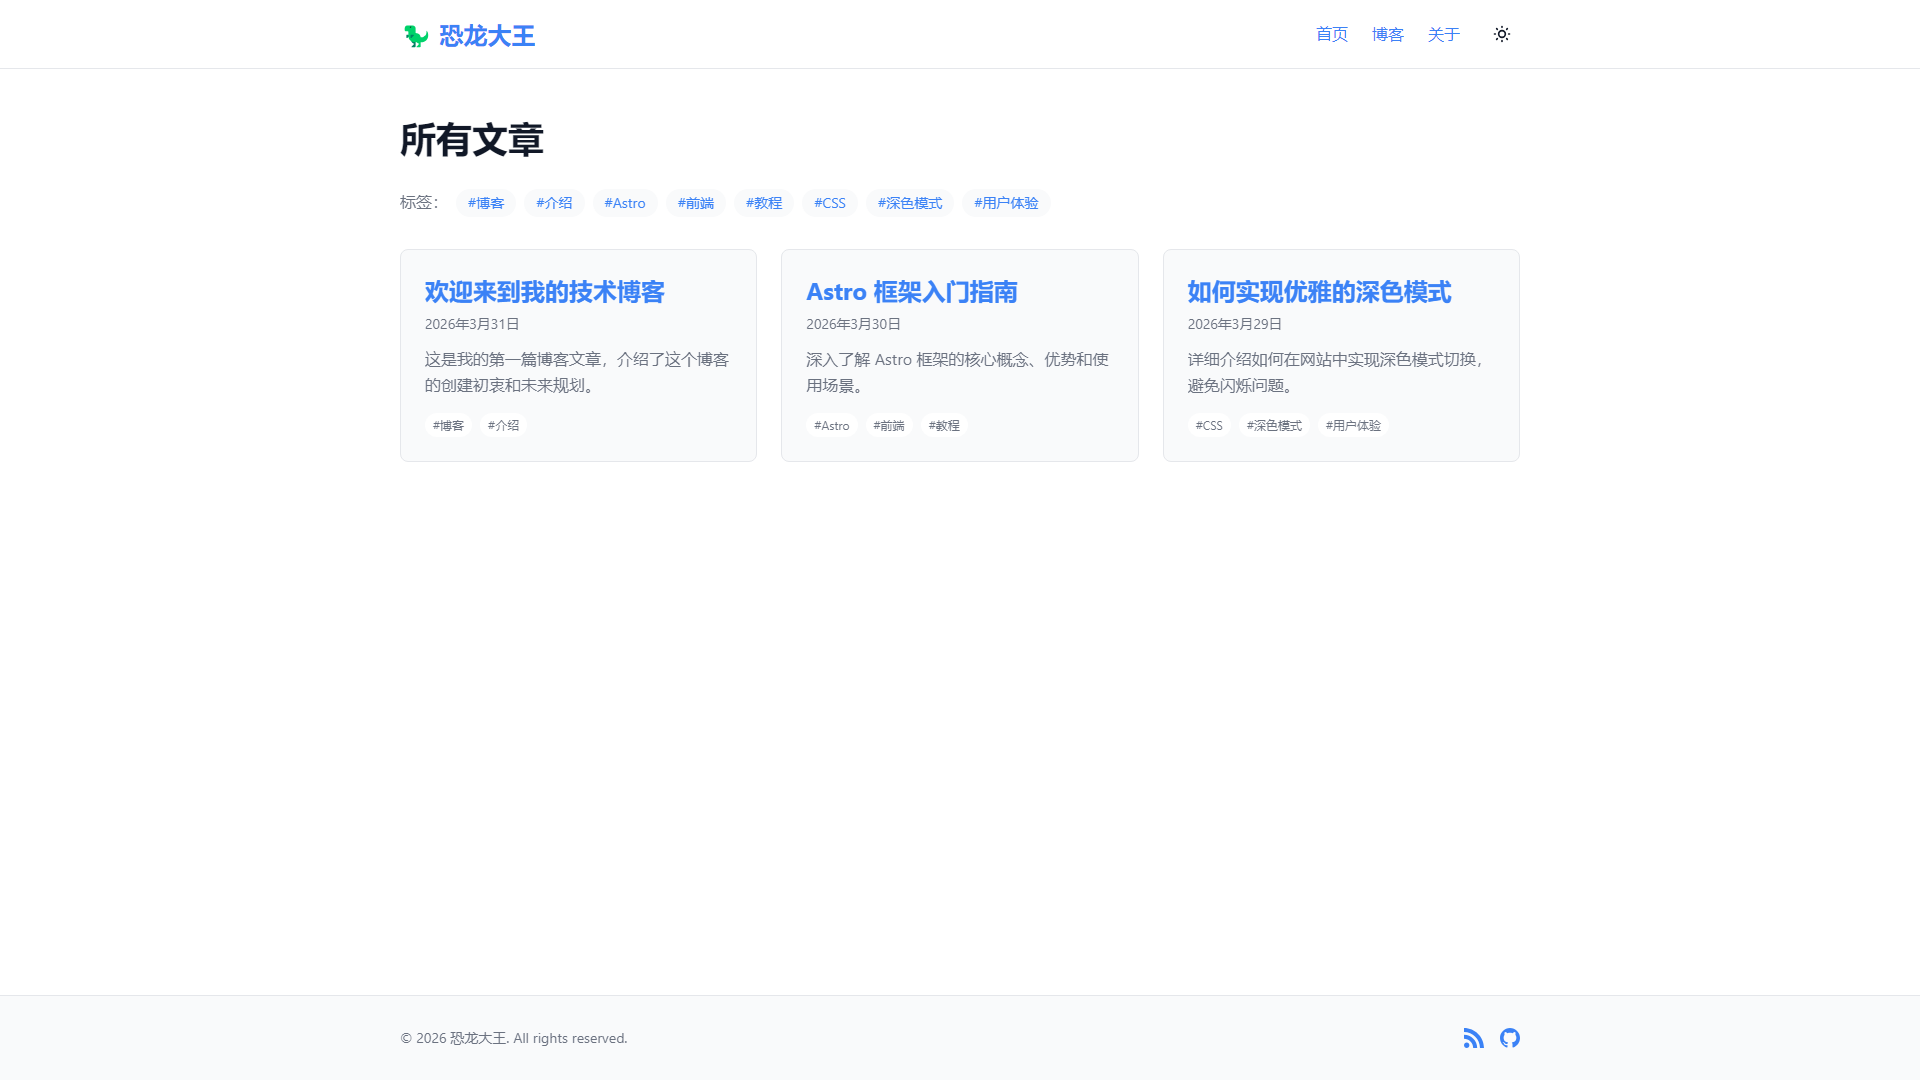
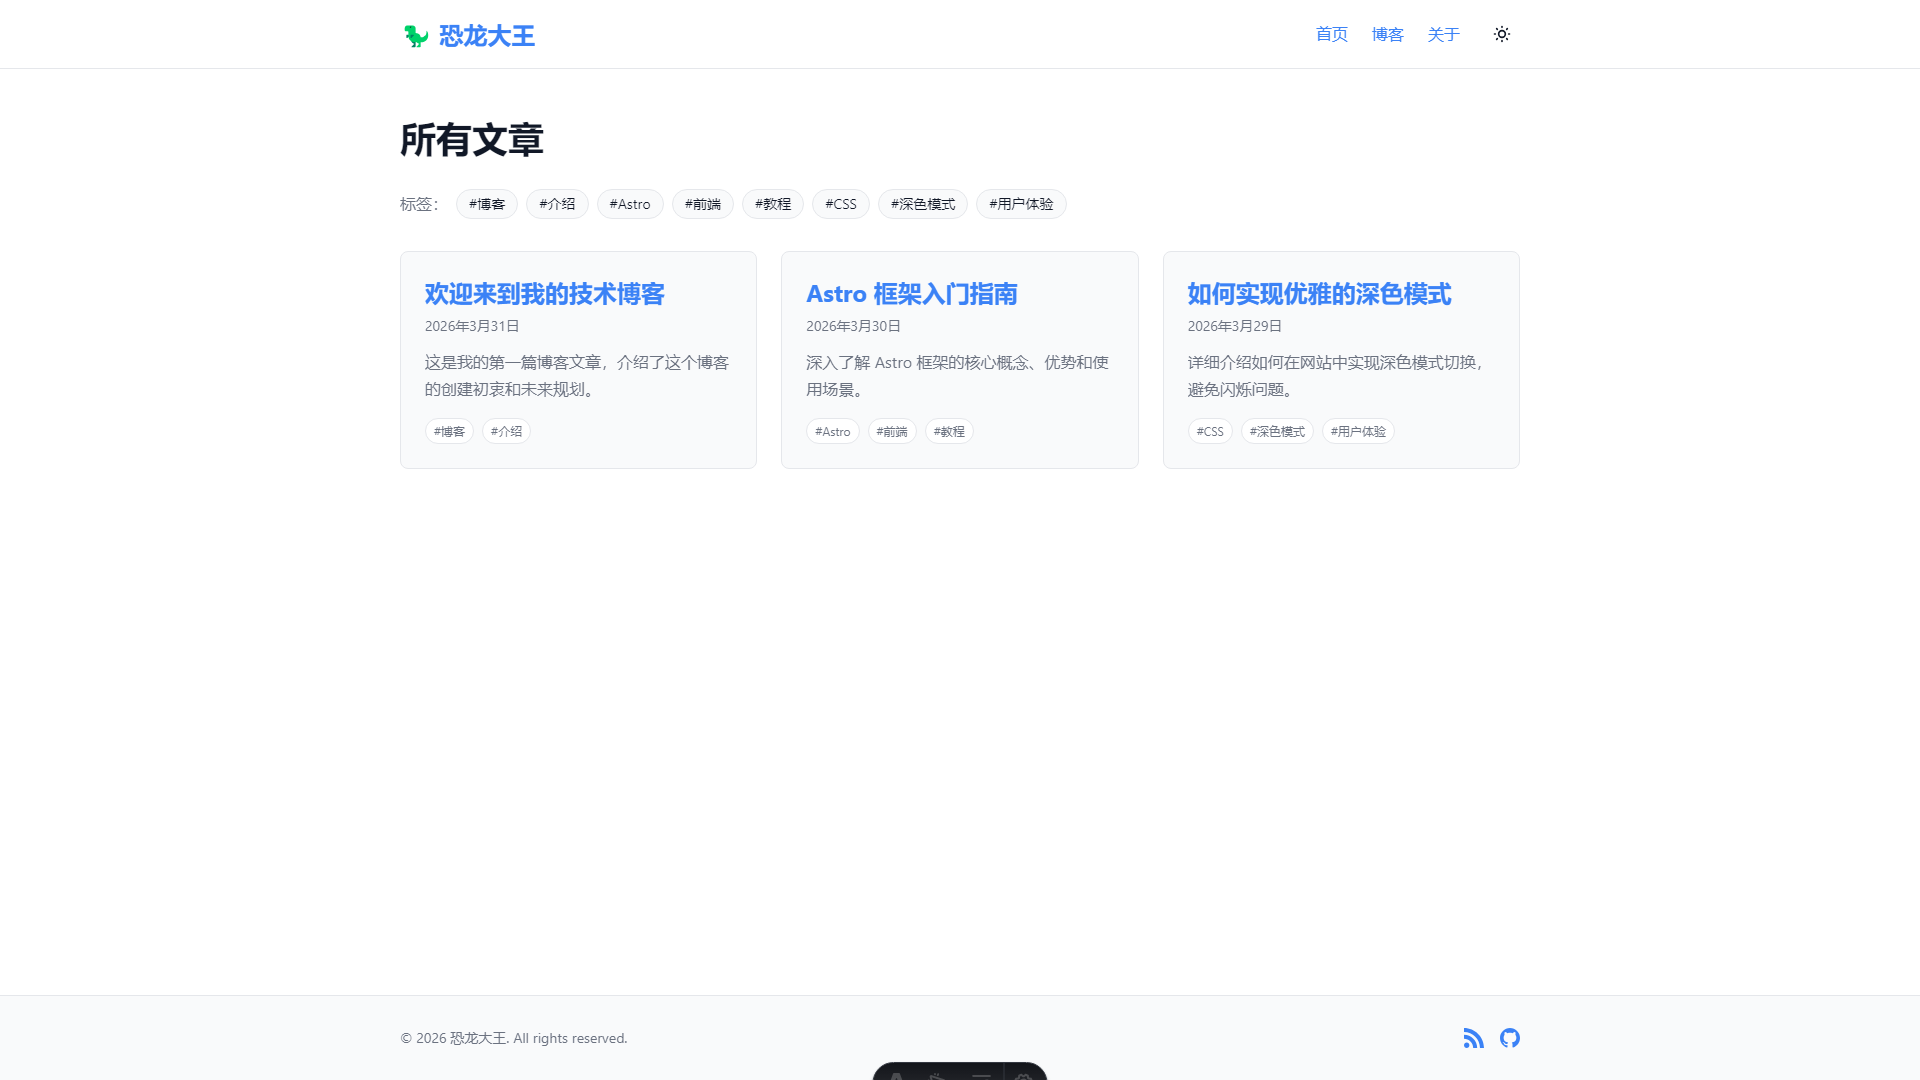
🔧 彻底修复标签选中文字空白问题
- 移除所有标签的内联 style 样式（内联样式会覆盖 ::selection）
- 为不同位置的标签添加专门的 CSS 类
  - .tag-link: 博客列表页的标签链接
  - .card-tag: 文章卡片中的标签
  - .article-tag: 文章详情页的标签
- 为每个标签类添加 ::selection 样式
- 使用 !important 确保选中样式优先级最高
- 添加 text-shadow: none 防止文字阴影干扰
- 统一选中效果：蓝色背景 + 白色文字

diff --git a/src/styles/global.css b/src/styles/global.css
@@ -108,27 +108,63 @@ a:hover {
 .tag-link {
   display: inline-block;
   background-color: var(--bg-secondary);
-  color: var(--text-primary);
+  color: var(--text-primary) !important;
   border: 1px solid var(--border-color);
 }
 
 .tag-link::selection {
-  background-color: var(--accent);
+  background-color: var(--accent) !important;
   color: #ffffff !important;
+  text-shadow: none !important;
 }
 
 .tag-link::-moz-selection {
-  background-color: var(--accent);
+  background-color: var(--accent) !important;
   color: #ffffff !important;
+  text-shadow: none !important;
 }
 
 .tag-link:hover {
-  background-color: var(--accent);
+  background-color: var(--accent) !important;
   color: #ffffff !important;
   border-color: var(--accent);
   opacity: 1;
   transform: translateY(-1px);
   box-shadow: var(--shadow-sm);
+}
+
+/* 文章卡片标签样式 */
+.card-tag {
+  background-color: var(--bg-primary);
+  color: var(--text-secondary) !important;
+  border-color: var(--border-color);
+}
+
+.card-tag::selection {
+  background-color: var(--accent) !important;
+  color: #ffffff !important;
+}
+
+.card-tag::-moz-selection {
+  background-color: var(--accent) !important;
+  color: #ffffff !important;
+}
+
+/* 文章详情页标签样式 */
+.article-tag {
+  background-color: var(--bg-secondary);
+  color: var(--text-primary) !important;
+  border-color: var(--border-color);
+}
+
+.article-tag::selection {
+  background-color: var(--accent) !important;
+  color: #ffffff !important;
+}
+
+.article-tag::-moz-selection {
+  background-color: var(--accent) !important;
+  color: #ffffff !important;
 }
 
 /* 文章内容样式 */
